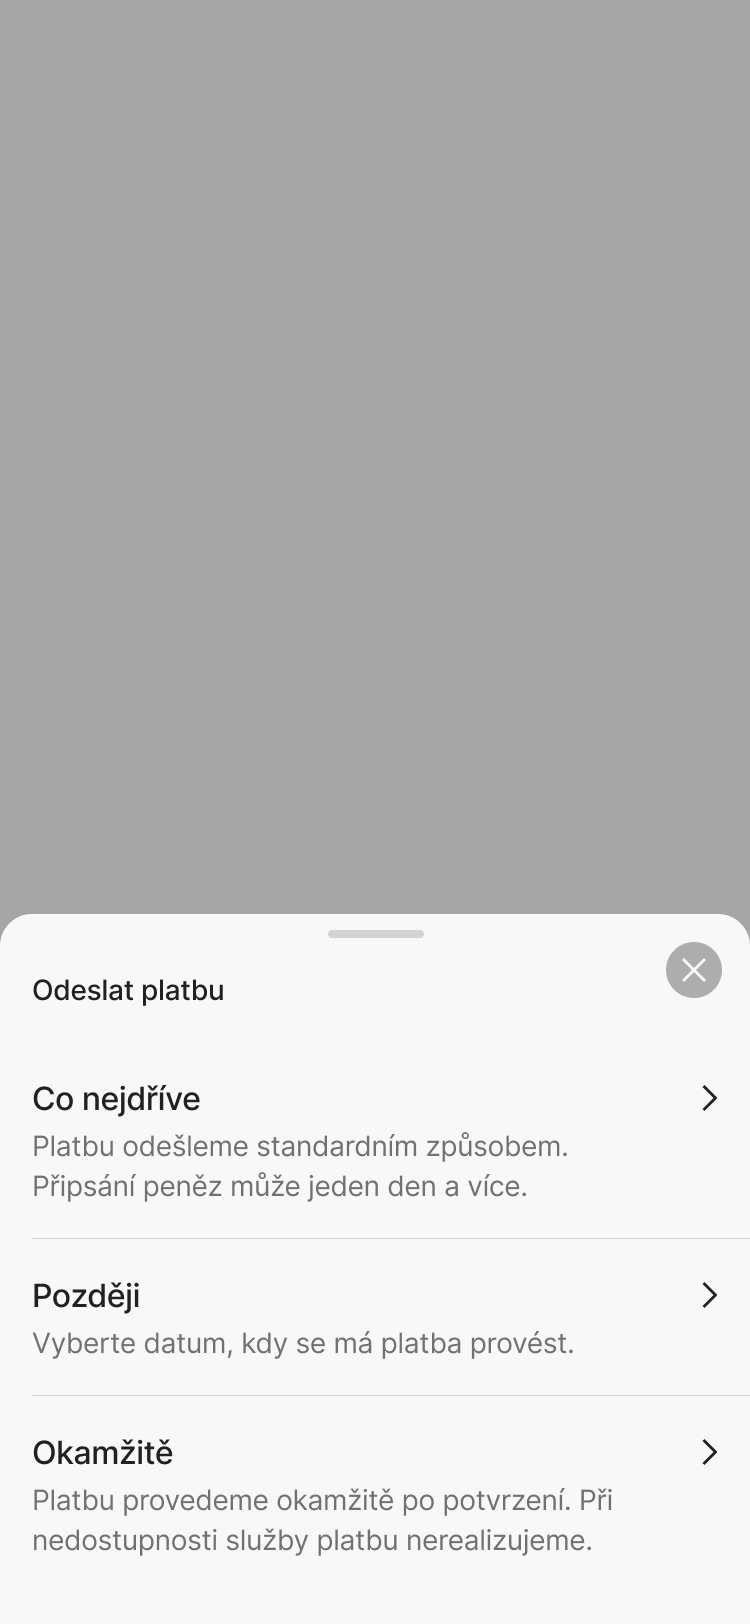
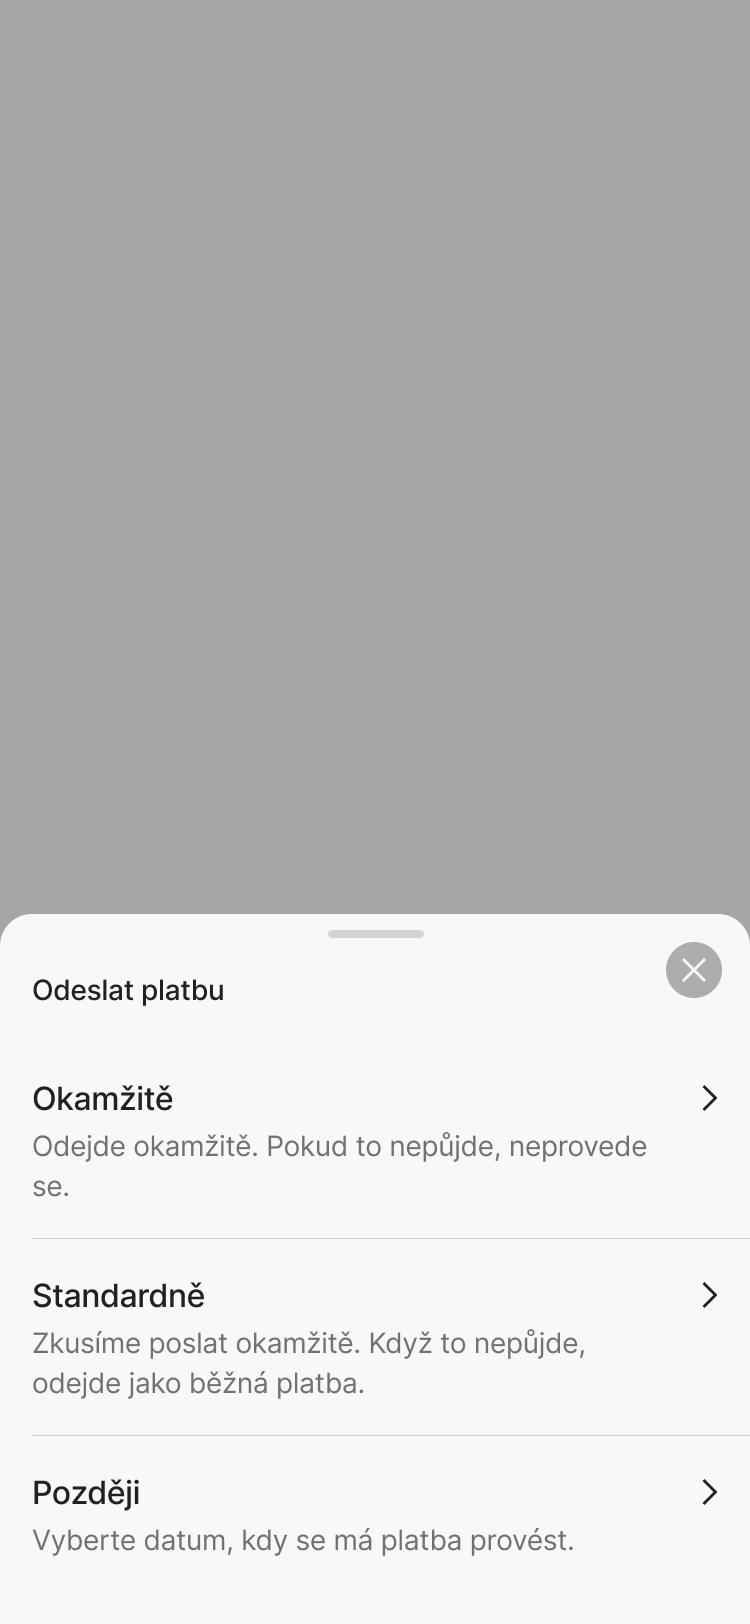
docs: update instant payment recommendation

diff --git a/Platby/Okamžité platby/index.html b/Platby/Okamžité platby/index.html
@@ -113,7 +113,7 @@
         <h1>Tři scénáře.<br>Jeden výběr.</h1>
         <p class="hero-copy">Uživatel potřebuje vybrat výsledné chování platby. Interní závislost mezi datem, okamžitým zpracováním a fallbackem nemá řešit dvěma propojenými ovladači.</p>
         <div class="thesis" aria-label="Požadované scénáře">
-          <article class="thesis-item"><span class="thesis-no">01</span><strong>Pouze okamžitě</strong><p>Buď dorazí během několika sekund, nebo se vůbec neprovede.</p></article>
+          <article class="thesis-item"><span class="thesis-no">01</span><strong>Okamžitě</strong><p>Buď dorazí během několika sekund, nebo se vůbec neprovede.</p></article>
           <article class="thesis-item"><span class="thesis-no">02</span><strong>Co nejdříve</strong><p>Nejdřív okamžitě. Když to nejde, automaticky standardně.</p></article>
           <article class="thesis-item"><span class="thesis-no">03</span><strong>Později</strong><p>Uživatel vybere konkrétní den odeslání.</p></article>
         </div>
@@ -155,9 +155,9 @@
           </article>
 
           <article class="variant">
-            <div class="variant-header"><div><div class="variant-kicker">Varianta 3</div><h3>Jedno pole a výběrový panel</h3><p class="variant-summary">Na formuláři zůstává jedna souhrnná hodnota. Panel po klepnutí nabídne Co nejdříve, Později a Okamžitě včetně popisu.</p></div><div class="score"><strong>22</strong><span>z 25 bodů</span></div></div>
-            <div class="variant-body"><div class="shots"><div class="shot-strip"><button class="shot-btn" data-full="assets/varianta-3-01.png" aria-label="Zvětšit variantu 3, obrazovku 1"><img loading="lazy" src="assets/varianta-3-01.png?v=1" alt="Varianta 3 – pole Odeslat platbu, Co nejdříve"></button><button class="shot-btn" data-full="assets/varianta-3-02.png" aria-label="Zvětšit variantu 3, obrazovku 2"><img loading="lazy" src="assets/varianta-3-02.png?v=1" alt="Varianta 3 – Co nejdříve"></button><button class="shot-btn" data-full="assets/varianta-3-03.png" aria-label="Zvětšit variantu 3, obrazovku 3"><img loading="lazy" src="assets/varianta-3-03.png?v=1" alt="Varianta 3 – Později a datum platby"></button><button class="shot-btn" data-full="assets/varianta-3-04.png" aria-label="Zvětšit variantu 3, obrazovku 4"><img loading="lazy" src="assets/varianta-3-04.png?v=1" alt="Varianta 3 – výběrový panel Co nejdříve, Později a Okamžitě"></button></div><div class="shot-count">4 dodané obrazovky · klepnutím zvětšit</div></div>
-            <div class="assessment"><div class="pm"><h4>Plusy</h4><ul class="pm-list plus"><li>Jeden ovladač na hlavní obrazovce; žádná závislost se switchem.</li><li>Všechny tři výsledky jsou vysvětlené na jednom místě.</li><li>„Co nejdříve“ odpovídá záměru běžného uživatele.</li></ul></div><div class="pm"><h4>Mínusy</h4><ul class="pm-list minus"><li>Současný popis „Co nejdříve“ mluví jen o standardním zpracování a neříká, že se nejdřív zkusí okamžité.</li><li>Samotné názvy „Co nejdříve“ a „Okamžitě“ jsou významově blízko.</li><li>„Okamžitě“ potřebuje zpřesnit na „Pouze okamžitě“.</li></ul></div><div class="fit"><h4>Vhodnost pro persony</h4><div class="fit-row"><span>Jana</span><span class="fit-dots" aria-label="4 z 5"><i class="fit-dot on"></i><i class="fit-dot on"></i><i class="fit-dot on"></i><i class="fit-dot on"></i><i class="fit-dot"></i></span></div><div class="fit-row"><span>Petr</span><span class="fit-dots" aria-label="4 z 5"><i class="fit-dot on"></i><i class="fit-dot on"></i><i class="fit-dot on"></i><i class="fit-dot on"></i><i class="fit-dot"></i></span></div><div class="fit-row"><span>Eva</span><span class="fit-dots" aria-label="5 z 5"><i class="fit-dot on"></i><i class="fit-dot on"></i><i class="fit-dot on"></i><i class="fit-dot on"></i><i class="fit-dot on"></i></span></div></div></div></div>
+            <div class="variant-header"><div><div class="variant-kicker">Varianta 3</div><h3>Jedno pole a výběrový panel</h3><p class="variant-summary">Na formuláři zůstává jedna souhrnná hodnota. Panel po klepnutí nabídne Okamžitě, Standardně a Později v chronologickém pořadí a s popisem důsledků.</p></div><div class="score"><strong>22</strong><span>z 25 bodů</span></div></div>
+            <div class="variant-body"><div class="shots"><div class="shot-strip"><button class="shot-btn" data-full="assets/varianta-3-01.png?v=2" aria-label="Zvětšit variantu 3, obrazovku 1"><img loading="lazy" src="assets/varianta-3-01.png?v=2" alt="Varianta 3 – pole Odeslat platbu, Okamžitě"></button><button class="shot-btn" data-full="assets/varianta-3-02.png?v=2" aria-label="Zvětšit variantu 3, obrazovku 2"><img loading="lazy" src="assets/varianta-3-02.png?v=2" alt="Varianta 3 – pole Odeslat platbu, Standardně"></button><button class="shot-btn" data-full="assets/varianta-3-03.png?v=2" aria-label="Zvětšit variantu 3, obrazovku 3"><img loading="lazy" src="assets/varianta-3-03.png?v=2" alt="Varianta 3 – pole Odeslat platbu, Později a datum platby"></button><button class="shot-btn" data-full="assets/varianta-3-04.png?v=2" aria-label="Zvětšit variantu 3, obrazovku 4"><img loading="lazy" src="assets/varianta-3-04.png?v=2" alt="Varianta 3 – výběrový panel Okamžitě, Standardně a Později"></button></div><div class="shot-count">4 aktualizované obrazovky · klepnutím zvětšit</div></div>
+            <div class="assessment"><div class="pm"><h4>Plusy</h4><ul class="pm-list plus"><li>Jeden ovladač na hlavní obrazovce; žádná závislost se switchem.</li><li>Volby sledují přirozenou časovou osu: hned, co nejdřív, později.</li><li>Panel vysvětluje rozdíl mezi tvrdou okamžitou podmínkou a fallbackem.</li></ul></div><div class="pm"><h4>Mínusy</h4><ul class="pm-list minus"><li>„Standardně“ je zavádějící název: systém se nejdřív pokusí o okamžitou platbu.</li><li>Výchozí Okamžitě může vést k neprovedení platby; tento důsledek na zavřeném formuláři není vidět.</li><li>Rozdíl mezi Okamžitě a Standardně uživatel pochopí až po otevření panelu.</li></ul></div><div class="fit"><h4>Vhodnost pro persony</h4><div class="fit-row"><span>Jana</span><span class="fit-dots" aria-label="3 z 5"><i class="fit-dot on"></i><i class="fit-dot on"></i><i class="fit-dot on"></i><i class="fit-dot"></i><i class="fit-dot"></i></span></div><div class="fit-row"><span>Petr</span><span class="fit-dots" aria-label="5 z 5"><i class="fit-dot on"></i><i class="fit-dot on"></i><i class="fit-dot on"></i><i class="fit-dot on"></i><i class="fit-dot on"></i></span></div><div class="fit-row"><span>Eva</span><span class="fit-dots" aria-label="5 z 5"><i class="fit-dot on"></i><i class="fit-dot on"></i><i class="fit-dot on"></i><i class="fit-dot on"></i><i class="fit-dot on"></i></span></div></div></div></div>
           </article>
 
           <article class="variant">
@@ -167,23 +167,23 @@
           </article>
 
           <article class="variant recommended">
-            <div class="variant-header"><div><div class="variant-kicker"><span class="tag">Doporučeno</span></div><h3>Varianta 5: jeden výběr, tři výsledky</h3><p class="variant-summary">Evoluce varianty 3. Jedno pole otevře panel se třemi vzájemně výlučnými možnostmi. Žádný další switch ani segment.</p></div><div class="score"><strong>24</strong><span>z 25 bodů</span></div></div>
-            <div class="variant-body"><div class="shots" style="display:grid;place-items:center;min-height:310px"><div class="decision-map" style="width:min(520px,100%)"><div class="map-row"><div class="map-label">Výchozí</div><div><strong>Co nejdříve</strong><p>Nejdřív zkusit okamžitě. Když to nejde, odeslat standardně.</p></div></div><div class="map-row"><div class="map-label">Plán</div><div><strong>Později</strong><p>Vybrat konkrétní datum odeslání.</p></div></div><div class="map-row"><div class="map-label">Výjimka</div><div><strong>Pouze okamžitě</strong><p>Pokud okamžitá platba nejde, nic neodesílat.</p></div></div></div></div>
-            <div class="assessment"><div class="pm"><h4>Plusy</h4><ul class="pm-list plus"><li>Jeden mentální model a jeden ovladač.</li><li>Odstraňuje testovanou nejasnost mezi segmentem a switchem.</li><li>Každá možnost popisuje výsledek, ne interní mechanismus.</li><li>Výchozí hybridní scénář nevyžaduje žádnou volbu navíc.</li></ul></div><div class="pm"><h4>Mínusy</h4><ul class="pm-list minus"><li>Změna výchozího chování vyžaduje otevření panelu.</li><li>Budoucí „pouze okamžitě“ zůstává samostatným produktovým rozhodnutím.</li></ul></div><div class="fit"><h4>Vhodnost pro persony</h4><div class="fit-row"><span>Jana</span><span class="fit-dots" aria-label="5 z 5"><i class="fit-dot on"></i><i class="fit-dot on"></i><i class="fit-dot on"></i><i class="fit-dot on"></i><i class="fit-dot on"></i></span></div><div class="fit-row"><span>Petr</span><span class="fit-dots" aria-label="5 z 5"><i class="fit-dot on"></i><i class="fit-dot on"></i><i class="fit-dot on"></i><i class="fit-dot on"></i><i class="fit-dot on"></i></span></div><div class="fit-row"><span>Eva</span><span class="fit-dots" aria-label="5 z 5"><i class="fit-dot on"></i><i class="fit-dot on"></i><i class="fit-dot on"></i><i class="fit-dot on"></i><i class="fit-dot on"></i></span></div></div></div></div>
+            <div class="variant-header"><div><div class="variant-kicker"><span class="tag">Doporučeno</span></div><h3>Varianta 5: jeden výběr, tři výsledky</h3><p class="variant-summary">Evoluce varianty 3. Jedno pole otevře panel se třemi vzájemně výlučnými možnostmi v časovém pořadí. Žádný další switch ani segment.</p></div><div class="score"><strong>23</strong><span>z 25 bodů</span></div></div>
+            <div class="variant-body"><div class="shots" style="display:grid;place-items:center;min-height:310px"><div class="decision-map" style="width:min(520px,100%)"><div class="map-row"><div class="map-label">Výchozí · 1</div><div><strong>Okamžitě</strong><p>Pokud okamžitá platba nejde, nic neodesílat.</p></div></div><div class="map-row"><div class="map-label">Fallback · 2</div><div><strong>Co nejdříve</strong><p>Nejdřív zkusit okamžitě. Když to nejde, odeslat standardně.</p></div></div><div class="map-row"><div class="map-label">Plán · 3</div><div><strong>Později</strong><p>Vybrat konkrétní datum odeslání.</p></div></div></div></div>
+            <div class="assessment"><div class="pm"><h4>Plusy</h4><ul class="pm-list plus"><li>Jeden mentální model a jeden ovladač.</li><li>Odstraňuje testovanou nejasnost mezi segmentem a switchem.</li><li>Chronologické pořadí odpovídá představě uživatele o časové ose.</li><li>„Co nejdříve“ popisuje hybridní výsledek přesněji než „Standardně“.</li></ul></div><div class="pm"><h4>Mínusy</h4><ul class="pm-list minus"><li>Výchozí Okamžitě může skončit neprovedenou platbou; jde o přísnější a méně odpouštějící výchozí stav.</li><li>Rozdíl mezi Okamžitě a Co nejdříve musí zůstat viditelný v krátkých popisech.</li><li>Budoucí okamžité zpracování zůstává samostatným produktovým rozhodnutím.</li></ul></div><div class="fit"><h4>Vhodnost pro persony</h4><div class="fit-row"><span>Jana</span><span class="fit-dots" aria-label="4 z 5"><i class="fit-dot on"></i><i class="fit-dot on"></i><i class="fit-dot on"></i><i class="fit-dot on"></i><i class="fit-dot"></i></span></div><div class="fit-row"><span>Petr</span><span class="fit-dots" aria-label="5 z 5"><i class="fit-dot on"></i><i class="fit-dot on"></i><i class="fit-dot on"></i><i class="fit-dot on"></i><i class="fit-dot on"></i></span></div><div class="fit-row"><span>Eva</span><span class="fit-dots" aria-label="5 z 5"><i class="fit-dot on"></i><i class="fit-dot on"></i><i class="fit-dot on"></i><i class="fit-dot on"></i><i class="fit-dot on"></i></span></div></div></div></div>
           </article>
         </div>
 
         <h3 style="font-size:24px;margin:40px 0 16px">Souhrnné skóre</h3>
-        <div class="matrix-wrap"><table><thead><tr><th>Varianta</th><th class="num">Srozumitelnost</th><th class="num">Rychlost</th><th class="num">Prevence chyb</th><th class="num">Pokrytí scénářů</th><th class="num">Naučitelnost</th><th class="num">Celkem</th></tr></thead><tbody><tr><td>1 · Tři segmenty + vysvětlení</td><td class="num">3</td><td class="num">4</td><td class="num">3</td><td class="num">4</td><td class="num">3</td><td class="num total">17</td></tr><tr><td>2 · Dva režimy + datum</td><td class="num">3</td><td class="num">4</td><td class="num">4</td><td class="num">4</td><td class="num">4</td><td class="num total">19</td></tr><tr><td>3 · Jedno pole + panel</td><td class="num">4</td><td class="num">5</td><td class="num">4</td><td class="num">5</td><td class="num">4</td><td class="num total">22</td></tr><tr><td>4 · Kalendář + switch</td><td class="num">2</td><td class="num">3</td><td class="num">2</td><td class="num">4</td><td class="num">2</td><td class="num total">13</td></tr><tr class="winner"><td><strong>5 · Jeden výběr, tři výsledky</strong></td><td class="num">5</td><td class="num">5</td><td class="num">5</td><td class="num">5</td><td class="num">4</td><td class="num total">24</td></tr></tbody></table></div>
+        <div class="matrix-wrap"><table><thead><tr><th>Varianta</th><th class="num">Srozumitelnost</th><th class="num">Rychlost</th><th class="num">Prevence chyb</th><th class="num">Pokrytí scénářů</th><th class="num">Naučitelnost</th><th class="num">Celkem</th></tr></thead><tbody><tr><td>1 · Tři segmenty + vysvětlení</td><td class="num">3</td><td class="num">4</td><td class="num">3</td><td class="num">4</td><td class="num">3</td><td class="num total">17</td></tr><tr><td>2 · Dva režimy + datum</td><td class="num">3</td><td class="num">4</td><td class="num">4</td><td class="num">4</td><td class="num">4</td><td class="num total">19</td></tr><tr><td>3 · Jedno pole + panel</td><td class="num">4</td><td class="num">5</td><td class="num">3</td><td class="num">5</td><td class="num">5</td><td class="num total">22</td></tr><tr><td>4 · Kalendář + switch</td><td class="num">2</td><td class="num">3</td><td class="num">2</td><td class="num">4</td><td class="num">2</td><td class="num total">13</td></tr><tr class="winner"><td><strong>5 · Jeden výběr, tři výsledky</strong></td><td class="num">5</td><td class="num">5</td><td class="num">4</td><td class="num">5</td><td class="num">4</td><td class="num total">23</td></tr></tbody></table></div>
       </div>
     </section>
 
     <section id="doporuceni">
       <div class="wrap">
-        <div class="section-head"><h2>Doporučené řešení</h2><p>Použít jedno pole <strong>Odeslat platbu</strong>. Po otevření nabídne tři vzájemně výlučné výsledky: Co nejdříve, Později a Pouze okamžitě. Samostatný switch ani druhý segment nezobrazovat.</p></div>
+        <div class="section-head"><h2>Doporučené řešení</h2><p>Použít jedno pole <strong>Odeslat platbu</strong>. Po otevření nabídne tři vzájemně výlučné výsledky v časovém pořadí: Okamžitě, Co nejdříve a Později. Samostatný switch ani druhý segment nezobrazovat.</p></div>
         <div class="recommend-grid">
-          <div><div class="decision-map"><div class="map-row"><div class="map-label">Jeden ovladač</div><div><strong>Odeslat platbu</strong><p>Na hlavní obrazovce zobrazuje jen vybraný výsledek. Všechny možnosti jsou uvnitř jednoho panelu.</p></div></div><div class="map-row"><div class="map-label">Výchozí</div><div><strong>Co nejdříve</strong><p>Nejdřív zkusíme okamžitě. Když to nepůjde, odešleme standardně.</p></div></div><div class="map-row"><div class="map-label">Výjimka</div><div><strong>Pouze okamžitě</strong><p>Když okamžitá platba nepůjde, platbu neodešleme.</p></div></div></div><div class="note"><strong>Proč ne dva ovladače:</strong><br><span style="color:var(--color-content-secondary)">Uživatelé v testu vnímali „Co nejdříve“ a switch „Okamžitá platba“ jako dvě označení stejné věci. Závislost mezi nimi nebyla předvídatelná.</span></div><div class="note" style="border-left-color:var(--color-attention-processing)"><strong>Produktové rozhodnutí před implementací:</strong><br><span style="color:var(--color-content-secondary)">Určit chování platby naplánované na později. Pokud nemusí podporovat režim pouze okamžitě, nedoplňovat k datu žádný další ovladač.</span></div></div>
-          <div class="phone-stage" aria-label="Interaktivní ukázka doporučeného řešení"><div class="phone"><div class="phone-head"><button type="button" aria-label="Zpět">‹ Zpět</button><strong>SEPA platba</strong><span></span></div><div class="phone-content"><button class="field" id="timing-field" type="button" aria-haspopup="dialog" aria-expanded="false"><span><span class="field-label">Odeslat platbu</span><span class="field-value" id="timing-value">Co nejdříve</span></span><span class="chev">›</span></button><p class="explain" id="timing-help">Nejdřív ji zkusíme poslat okamžitě. Když to nepůjde, odešleme ji standardně.</p></div><div class="phone-bottom"><button class="primary" type="button">Pokračovat</button></div><div class="sheet" id="timing-sheet" role="dialog" aria-modal="true" aria-labelledby="sheet-title" aria-hidden="true" inert><div class="sheet-card"><div class="grab"></div><h4 id="sheet-title">Jak platbu odeslat?</h4><button class="option selected" type="button" data-timing="asap"><span><strong>Co nejdříve</strong><span>Nejdřív okamžitě. Když to nepůjde, standardně.</span></span><i class="radio" aria-hidden="true"></i></button><button class="option" type="button" data-timing="later"><span><strong>Později</strong><span>Vyberete konkrétní den odeslání.</span></span><i class="radio" aria-hidden="true"></i></button><div class="date-box" id="date-box"><label for="payment-date">Datum platby</label><input id="payment-date" type="date" value="2026-08-15" min="2026-08-01"></div><button class="option" type="button" data-timing="instant"><span><strong>Pouze okamžitě</strong><span>Když to nepůjde během několika sekund, platbu neodešleme.</span></span><i class="radio" aria-hidden="true"></i></button><button class="primary" id="sheet-done" type="button">Potvrdit</button></div></div></div></div>
+          <div><div class="decision-map"><div class="map-row"><div class="map-label">Jeden ovladač</div><div><strong>Odeslat platbu</strong><p>Na hlavní obrazovce zobrazuje jen vybraný výsledek. Všechny možnosti jsou uvnitř jednoho panelu.</p></div></div><div class="map-row"><div class="map-label">Výchozí · 1</div><div><strong>Okamžitě</strong><p>Když okamžitá platba nepůjde, platbu neprovedeme.</p></div></div><div class="map-row"><div class="map-label">Fallback · 2</div><div><strong>Co nejdříve</strong><p>Nejdřív zkusíme okamžitě. Když to nepůjde, odešleme standardně.</p></div></div><div class="map-row"><div class="map-label">Plán · 3</div><div><strong>Později</strong><p>Uživatel vybere konkrétní datum odeslání.</p></div></div></div><div class="note"><strong>Proč ne dva ovladače:</strong><br><span style="color:var(--color-content-secondary)">Uživatelé v testu vnímali „Co nejdříve“ a switch „Okamžitá platba“ jako dvě označení stejné věci. Závislost mezi nimi nebyla předvídatelná.</span></div><div class="note" style="border-left-color:var(--color-attention-processing)"><strong>Riziko výchozí volby:</strong><br><span style="color:var(--color-content-secondary)">Okamžitě je tvrdá podmínka. Když služba není dostupná, platba se neprovede. Důsledek musí být viditelný i na zavřeném formuláři a potvrzovací obrazovce.</span></div><div class="note" style="border-left-color:var(--color-attention-processing)"><strong>Produktové rozhodnutí před implementací:</strong><br><span style="color:var(--color-content-secondary)">Určit chování platby naplánované na později. Pokud nemusí podporovat režim okamžitě bez fallbacku, nedoplňovat k datu žádný další ovladač.</span></div></div>
+          <div class="phone-stage" aria-label="Interaktivní ukázka doporučeného řešení"><div class="phone"><div class="phone-head"><button type="button" aria-label="Zpět">‹ Zpět</button><strong>SEPA platba</strong><span></span></div><div class="phone-content"><button class="field" id="timing-field" type="button" aria-haspopup="dialog" aria-expanded="false"><span><span class="field-label">Odeslat platbu</span><span class="field-value" id="timing-value">Okamžitě</span></span><span class="chev">›</span></button><p class="explain" id="timing-help">Odejde okamžitě. Pokud to nepůjde, platbu neprovedeme.</p></div><div class="phone-bottom"><button class="primary" type="button">Pokračovat</button></div><div class="sheet" id="timing-sheet" role="dialog" aria-modal="true" aria-labelledby="sheet-title" aria-hidden="true" inert><div class="sheet-card"><div class="grab"></div><h4 id="sheet-title">Jak platbu odeslat?</h4><button class="option selected" type="button" data-timing="instant"><span><strong>Okamžitě</strong><span>Odejde okamžitě. Pokud to nepůjde, platbu neprovedeme.</span></span><i class="radio" aria-hidden="true"></i></button><button class="option" type="button" data-timing="asap"><span><strong>Co nejdříve</strong><span>Nejdřív okamžitě. Když to nepůjde, standardně.</span></span><i class="radio" aria-hidden="true"></i></button><button class="option" type="button" data-timing="later"><span><strong>Později</strong><span>Vyberete konkrétní den odeslání.</span></span><i class="radio" aria-hidden="true"></i></button><div class="date-box" id="date-box"><label for="payment-date">Datum platby</label><input id="payment-date" type="date" value="2026-08-15" min="2026-08-01"></div><button class="primary" id="sheet-done" type="button">Potvrdit</button></div></div></div></div>
         </div>
       </div>
     </section>
@@ -206,9 +206,9 @@
 
   <dialog id="lightbox"><div class="lightbox-inner"><img id="lightbox-image" alt="Zvětšený návrh obrazovky"><button class="close" id="lightbox-close" type="button" aria-label="Zavřít">×</button></div></dialog>
   <script>
-    const storageKey='okamzite_platby_review_state_v2';
+    const storageKey='okamzite_platby_review_state_v3';
     const saved=JSON.parse(localStorage.getItem(storageKey)||'{}');
-    let timing=saved.timing||'asap';
+    let timing=saved.timing||'instant';
     let paymentDate=saved.paymentDate||'2026-08-15';
     const field=document.getElementById('timing-field');
     const sheet=document.getElementById('timing-sheet');
@@ -227,8 +227,8 @@
         timingValue.textContent=formatDate(paymentDate);
         timingHelp.textContent='Platbu odešleme ve zvolený den.';
       }else if(timing==='instant'){
-        timingValue.textContent='Pouze okamžitě';
-        timingHelp.textContent='Když to nepůjde během několika sekund, platbu neodešleme.';
+        timingValue.textContent='Okamžitě';
+        timingHelp.textContent='Odejde okamžitě. Pokud to nepůjde, platbu neprovedeme.';
       }else{
         timingValue.textContent='Co nejdříve';
         timingHelp.textContent='Nejdřív ji zkusíme poslat okamžitě. Když to nepůjde, odešleme ji standardně.';

diff --git a/index.html b/index.html
@@ -475,7 +475,7 @@
           </svg>
         </a>
         <div class="divider file-divider"></div>
-        <a class="item" href="Platby/Okam%C5%BEit%C3%A9%20platby/index.html?k=4c129f69f551195cbc5e8b57cc5a0975b6efa1e8510573524d11df03c7d010c6" data-name="Okamžité platby" data-modified="1785480163000">
+        <a class="item" href="Platby/Okam%C5%BEit%C3%A9%20platby/index.html?k=4c129f69f551195cbc5e8b57cc5a0975b6efa1e8510573524d11df03c7d010c6" data-name="Okamžité platby" data-modified="1785481125000">
           <span class="item-name">Okamžité platby</span>
           <span class="badge-new" style="display:none">Nová verze</span>
           <svg class="chevron" viewBox="0 0 24 24" fill="none" stroke="currentColor" stroke-width="2" stroke-linecap="round" stroke-linejoin="round">
